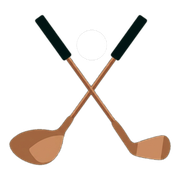
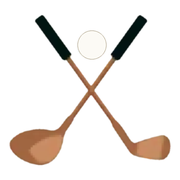
Refactor code structure for improved readability and maintainability

diff --git a/templates/index.html b/templates/index.html
@@ -8,12 +8,29 @@
     <meta name="description" content="{{ meta_description }}">
     <link rel="canonical" href="{{ url_for('index', _external=True) }}">
 
-    <!-- Every icon is the header artwork itself, downscaled. A simplified vector
-         mark was tried first on the assumption the illustration would mush at
-         16px; rendered side by side it lost to the artwork at every size, so
-         the artwork is used throughout and the tab icon matches the logo. -->
-    <link rel="icon" type="image/png" sizes="32x32" href="{{ url_for('static', filename='favicon-32.png') }}">
+    <!-- Every icon is the header artwork itself. A simplified vector mark was
+         tried first on the assumption the illustration would mush at 16px;
+         rendered side by side it lost to the artwork at every size, so the
+         artwork is used throughout and the tab icon matches the logo.
+
+         Sizes are multiples of 48 because that is the shape Google asks a
+         favicon to be, and the file it reads is whichever THIS page declares -
+         the favicon in a search result is taken from the site's home page, not
+         from whichever page happened to rank.
+
+         These stay transparent: a browser tab is light or dark depending on
+         the viewer's theme, so the icon has to sit on either. The ball carries
+         a thin outline for the same reason - it is a white disc, drawn for the
+         ink sidebar, and on any light ground it would otherwise not be there
+         at all. favicon-32.png is still generated and still on disk, no longer
+         linked from here: the guides in golf-ai-monetize link it through the
+         proxy, and dropping the file would 404 them. -->
+    <link rel="icon" type="image/png" sizes="192x192" href="{{ url_for('static', filename='favicon-192.png') }}">
+    <link rel="icon" type="image/png" sizes="96x96" href="{{ url_for('static', filename='favicon-96.png') }}">
     <link rel="icon" type="image/x-icon" href="{{ url_for('static', filename='favicon.ico') }}">
+    <!-- Opaque, unlike the favicons above: iOS composites a transparent PNG
+         onto black, which would land the near-black grips on a near-black
+         ground. -->
     <link rel="apple-touch-icon" sizes="180x180" href="{{ url_for('static', filename='apple-touch-icon.png') }}">
 
     <meta property="og:type" content="website">
@@ -21,11 +38,11 @@
     <meta property="og:title" content="Stickly - Free AI Golf Club Recommendations">
     <meta property="og:description" content="{{ meta_description }}">
     <meta property="og:url" content="{{ url_for('index', _external=True) }}">
-    <meta property="og:image" content="{{ url_for('static', filename='apple-touch-icon.png', _external=True) }}">
+    <meta property="og:image" content="{{ url_for('static', filename='logo-512.png', _external=True) }}">
     <meta name="twitter:card" content="summary">
     <meta name="twitter:title" content="Stickly - Free AI Golf Club Recommendations">
     <meta name="twitter:description" content="{{ meta_description }}">
-    <meta name="twitter:image" content="{{ url_for('static', filename='apple-touch-icon.png', _external=True) }}">
+    <meta name="twitter:image" content="{{ url_for('static', filename='logo-512.png', _external=True) }}">
 
     <script type="application/ld+json">
     {
@@ -36,7 +53,7 @@
           "@id": "{{ url_for('index', _external=True) }}#organization",
           "name": "Stickly",
           "url": "{{ url_for('index', _external=True) }}",
-          "logo": "{{ url_for('static', filename='apple-touch-icon.png', _external=True) }}"
+          "logo": "{{ url_for('static', filename='logo-512.png', _external=True) }}"
         },
         {
           "@type": "WebApplication",
